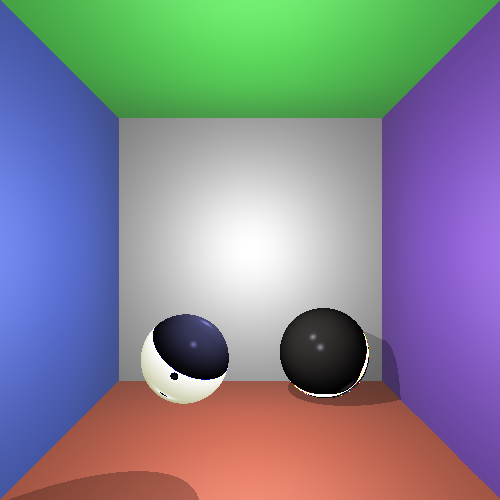
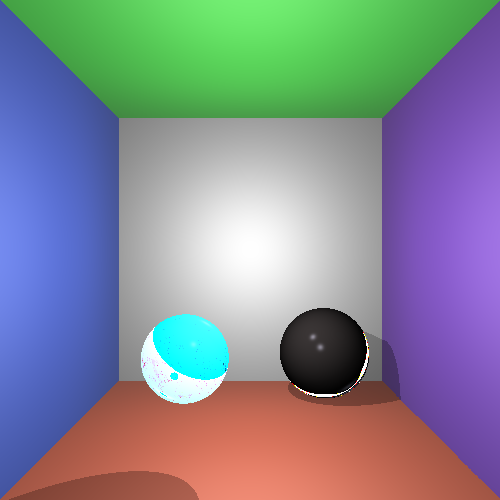
background color

Changed region(s): [[0.27, 0.63, 0.48, 0.81]]

diff --git a/src/RayTracing/RayTracer.java b/src/RayTracing/RayTracer.java
@@ -348,9 +348,10 @@ public class RayTracer {
 			// I = I_e + K_a*I_al + K_d * (N dot L) * I_l + K_s * (V dot R)^n * I_l
 
 			Material mat = this.scene.materials.get(shape.getMat_idx() -1 );
-			double Ir = 0;
-			double Ig = 0;
-			double Ib = 0;
+			MySet set = this.scene.getMySet();
+			double Ir = set.getBgr()*mat.getTrans();
+			double Ig = set.getBgg()*mat.getTrans();
+			double Ib = set.getBgb()*mat.getTrans();
 			double[] lightValues;
 			for(Light licht: this.scene.getLights()){
 				lightValues = getlightValues(endPoint,licht,shape);
@@ -363,12 +364,11 @@ public class RayTracer {
 			
 			
 			}
-			
 			// reflection
-			Vector I = getReflectionColor(endPoint, ray, shape, 4);
+			Vector I = getReflectionColor(endPoint, ray, shape, this.scene.getMySet().getRec_max());
 			Ir += mat.getRr()* I.x;
-			Ig += mat.getRr()* I.y;
-			Ib += mat.getRr()* I.z;
+			Ig += mat.getRg()* I.y;
+			Ib += mat.getRb()* I.z;
 
 			// get base color by ray.
 			red = 	255*Ir; //this.scene.materials.get(shape.getMat_idx() -1 ).getDr() * 255 * lightValues[0];
@@ -393,7 +393,12 @@ public class RayTracer {
 		
 		Vector r = shape.getR(endPoint, ray.getP0());
 		Ray recRay = new Ray(Double.POSITIVE_INFINITY, endPoint, r);
-		Vector I = new Vector(0,0,0);
+		Material mat = this.scene.materials.get(shape.getMat_idx() -1 );
+		MySet set = this.scene.getMySet();
+		double Ir = set.getBgr()*mat.getTrans();
+		double Ig = set.getBgg()*mat.getTrans();
+		double Ib = set.getBgb()*mat.getTrans();
+		Vector I = new Vector(Ir,Ig,Ib);
 		double t = 0;
 		int flag = 0;
 		
@@ -415,10 +420,11 @@ public class RayTracer {
 
 			// I = I_e + K_a*I_al + K_d * (N dot L) * I_l + K_s * (V dot R)^n * I_l
 
-			Material mat = this.scene.materials.get(shape.getMat_idx() -1 );
-			double Ir = 0;
-			double Ig = 0;
-			double Ib = 0;
+			mat = this.scene.materials.get(shape.getMat_idx() -1 );
+			set = this.scene.getMySet();
+			Ir = set.getBgr()*mat.getTrans();
+			Ig = set.getBgg()*mat.getTrans();
+			Ib = set.getBgb()*mat.getTrans();
 			double[] lightValues;
 			for(Light licht: this.scene.getLights()){
 				lightValues = getlightValues(p,licht,shape);
